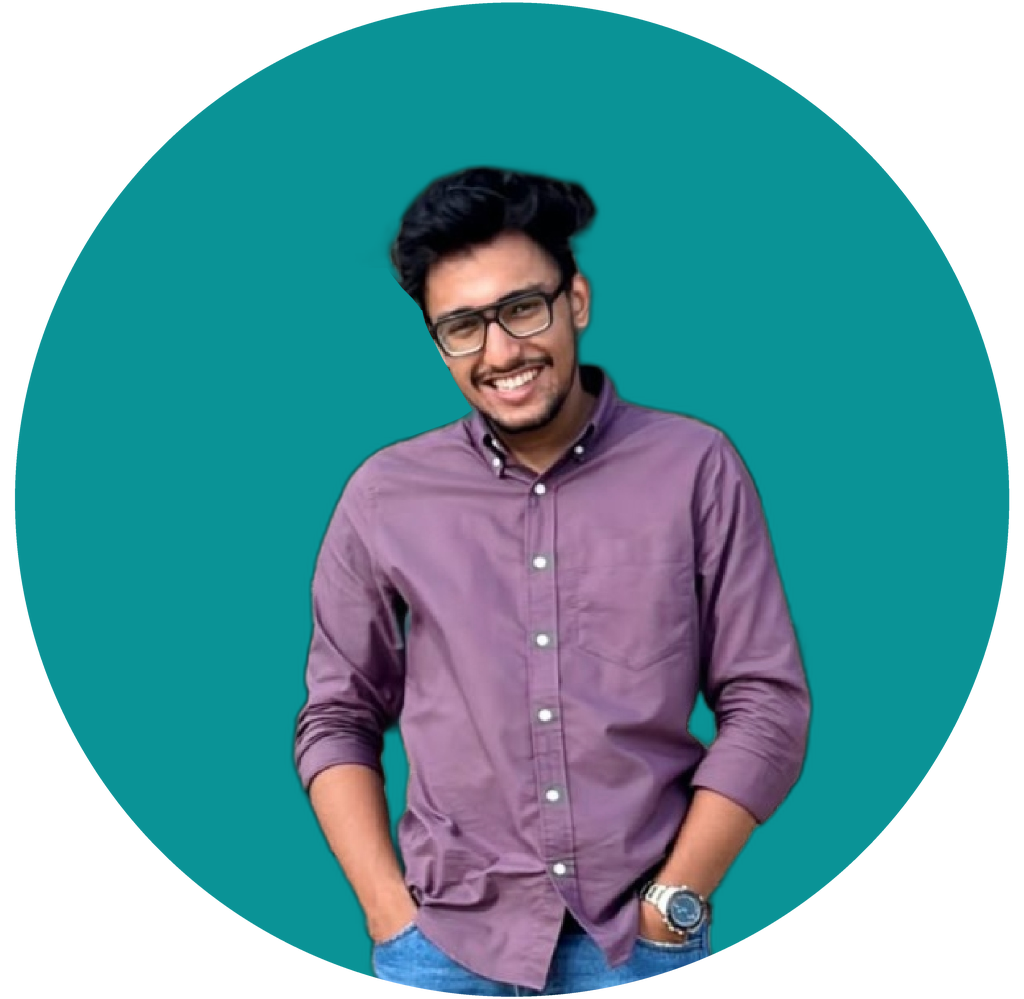
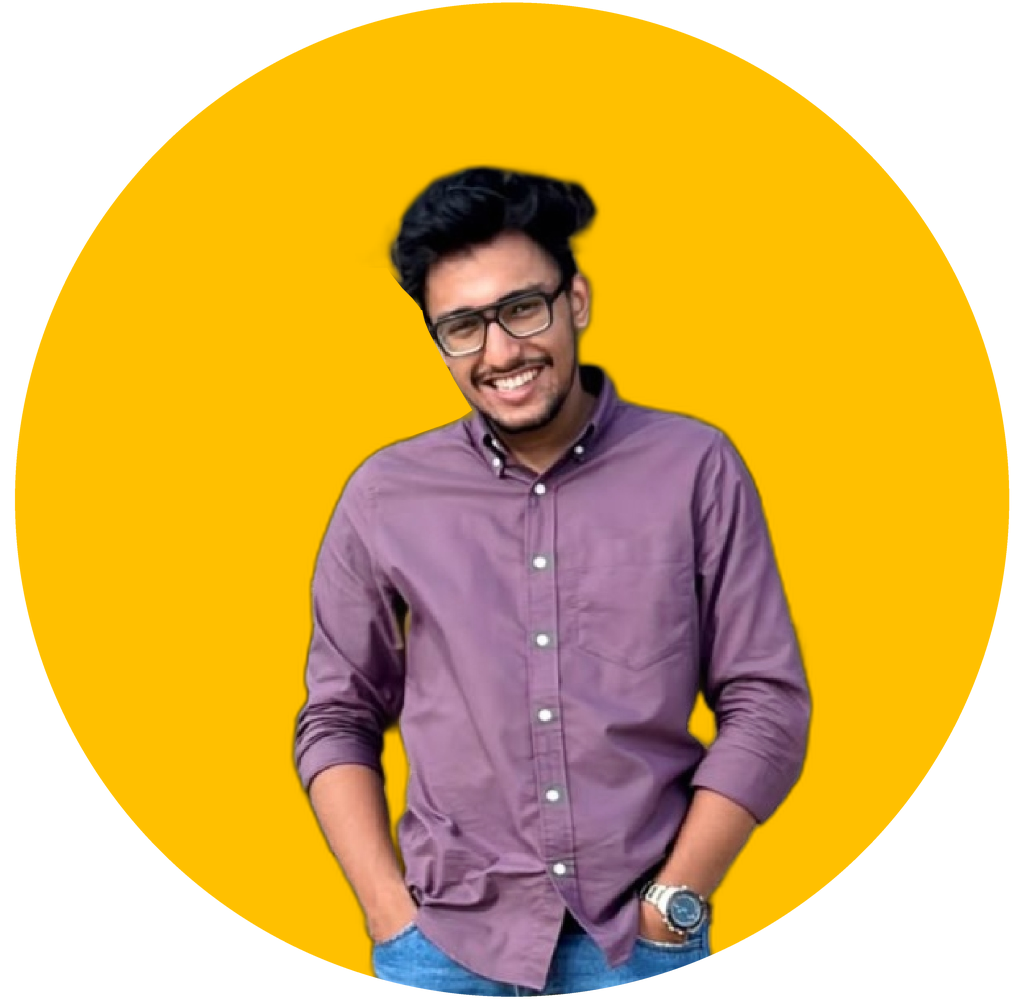
Update portfolio accent colors, buttons, mouse hover glow, and profile circle to golden yellow #FFC000

diff --git a/src/routes/index.tsx b/src/routes/index.tsx
@@ -220,7 +220,7 @@ function ScrollToTopButton() {
       type="button"
       onClick={scrollToTop}
       aria-label="Scroll back to top"
-      className={`fixed bottom-6 right-6 z-40 flex h-11 w-11 sm:h-12 sm:w-12 items-center justify-center rounded-full border border-border/80 bg-nav/90 text-foreground shadow-lg backdrop-blur-md transition-all duration-300 hover:border-[#59cdc6] hover:text-[#59cdc6] hover:shadow-[0_0_20px_rgba(89,205,198,0.35)] hover:scale-110 active:scale-95 ${
+      className={`fixed bottom-6 right-6 z-40 flex h-11 w-11 sm:h-12 sm:w-12 items-center justify-center rounded-full border border-border/80 bg-nav/90 text-foreground shadow-lg backdrop-blur-md transition-all duration-300 hover:border-[#FFC000] hover:text-[#FFC000] hover:shadow-[0_0_20px_rgba(255,192,0,0.35)] hover:scale-110 active:scale-95 ${
         visible ? "opacity-100 translate-y-0 pointer-events-auto" : "opacity-0 translate-y-4 pointer-events-none"
       }`}
     >
@@ -325,7 +325,7 @@ function Index() {
             <div>
               <a
                 href="#work"
-                className="inline-flex items-center gap-2.5 rounded-full bg-[#59cdc6] px-6 py-3 text-xs sm:text-sm font-semibold text-slate-900 transition-all duration-300 hover:bg-[#59cdc6]/90 hover:shadow-[0_0_24px_rgba(89,205,198,0.45)] hover:scale-[1.02] active:scale-95"
+                className="inline-flex items-center gap-2.5 rounded-full bg-[#FFC000] px-6 py-3 text-xs sm:text-sm font-semibold text-slate-900 transition-all duration-300 hover:bg-[#FFC000]/90 hover:shadow-[0_0_24px_rgba(255,192,0,0.45)] hover:scale-[1.02] active:scale-95"
               >
                 <span>Explore selected work</span>
                 <ArrowIcon />
@@ -378,7 +378,7 @@ function Index() {
                 href={project.url}
                 target="_blank"
                 rel="noopener noreferrer"
-                className="group block cursor-pointer transition-transform duration-300 hover:-translate-y-1 focus:outline-none focus-visible:ring-2 focus-visible:ring-[#59cdc6] rounded-lg"
+                className="group block cursor-pointer transition-transform duration-300 hover:-translate-y-1 focus:outline-none focus-visible:ring-2 focus-visible:ring-[#FFC000] rounded-lg"
               >
                 <div className="relative aspect-[4/3] overflow-hidden rounded-lg border border-border bg-card">
                   <img
@@ -391,7 +391,7 @@ function Index() {
                     <span className="text-[11px] sm:text-xs font-medium text-muted-foreground">{project.number} / {project.type}</span>
                   </div>
                 </div>
-                <h3 className="mt-3.5 sm:mt-5 text-base sm:text-lg md:text-xl font-semibold break-words text-foreground transition-colors group-hover:text-[#59cdc6]">
+                <h3 className="mt-3.5 sm:mt-5 text-base sm:text-lg md:text-xl font-semibold break-words text-foreground transition-colors group-hover:text-[#FFC000]">
                   {project.title}
                 </h3>
                 <p className="mt-1.5 sm:mt-2 text-xs sm:text-sm md:text-base leading-relaxed text-muted-foreground">{project.description}</p>
@@ -442,7 +442,7 @@ function Index() {
               {approachSteps.map((step) => (
                 <div
                   key={step.title}
-                  className="rounded-2xl border border-border bg-card/60 p-4 sm:p-5 transition-all duration-300 hover:border-[#59cdc6]/40 hover:bg-card hover:shadow-[0_4px_20px_rgba(89,205,198,0.08)]"
+                  className="rounded-2xl border border-border bg-card/60 p-4 sm:p-5 transition-all duration-300 hover:border-[#FFC000]/40 hover:bg-card hover:shadow-[0_4px_20px_rgba(255,192,0,0.08)]"
                 >
                   <div className="flex items-center justify-between">
                     <span className="text-xs font-semibold text-accent">{step.step}</span>
@@ -475,20 +475,20 @@ function Index() {
                   <div
                     className={`absolute -left-[29px] sm:-left-[41px] top-1 z-10 h-4 w-4 sm:h-[18px] sm:w-[18px] rounded-full border-2 border-background transition-all duration-300 group-hover:scale-125 ${
                       item.isCurrent
-                        ? "bg-[#59cdc6] border-[#59cdc6] shadow-[0_0_18px_#59cdc6] ring-4 ring-[#59cdc6]/30"
-                        : "bg-slate-300 dark:bg-[#45362C] group-hover:!bg-[#59cdc6] dark:group-hover:!bg-[#59cdc6] group-hover:!border-[#59cdc6] group-hover:shadow-[0_0_20px_#59cdc6] group-hover:ring-4 group-hover:ring-[#59cdc6]/40"
+                        ? "bg-[#FFC000] border-[#FFC000] shadow-[0_0_18px_#FFC000] ring-4 ring-[#FFC000]/30"
+                        : "bg-slate-300 dark:bg-[#45362C] group-hover:!bg-[#FFC000] dark:group-hover:!bg-[#FFC000] group-hover:!border-[#FFC000] group-hover:shadow-[0_0_20px_#FFC000] group-hover:ring-4 group-hover:ring-[#FFC000]/40"
                     }`}
                   />
 
                   {/* Period & Tag */}
                   <div className="flex flex-wrap items-center gap-2">
-                    <span className="text-[11px] sm:text-xs font-semibold uppercase tracking-wider text-[#59cdc6]">
+                    <span className="text-[11px] sm:text-xs font-semibold uppercase tracking-wider text-[#FFC000]">
                       {item.period}
                     </span>
                     <span
                       className={`inline-flex items-center rounded-full px-2 sm:px-2.5 py-0.5 text-[10px] sm:text-[11px] font-medium ${
                         item.isCurrent
-                          ? "border border-[#59cdc6]/30 bg-[#59cdc6]/15 text-[#59cdc6]"
+                          ? "border border-[#FFC000]/30 bg-[#FFC000]/15 text-[#FFC000]"
                           : "bg-muted text-muted-foreground"
                       }`}
                     >
@@ -497,7 +497,7 @@ function Index() {
                   </div>
 
                   {/* Title & Organization */}
-                  <h3 className="mt-1.5 sm:mt-2 text-base sm:text-lg md:text-xl font-semibold text-foreground transition-colors group-hover:text-[#59cdc6]">
+                  <h3 className="mt-1.5 sm:mt-2 text-base sm:text-lg md:text-xl font-semibold text-foreground transition-colors group-hover:text-[#FFC000]">
                     {item.title}
                   </h3>
                   <p className="mt-1 text-xs sm:text-sm font-medium text-muted-foreground">
@@ -522,10 +522,10 @@ function Index() {
             </div>
 
             {/* Document Card Overview */}
-            <div className="rounded-2xl border border-border bg-card/60 p-5 sm:p-7 transition-all duration-300 hover:border-[#59cdc6]/40 hover:bg-card hover:shadow-[0_8px_30px_rgba(89,205,198,0.08)]">
+            <div className="rounded-2xl border border-border bg-card/60 p-5 sm:p-7 transition-all duration-300 hover:border-[#FFC000]/40 hover:bg-card hover:shadow-[0_8px_30px_rgba(255,192,0,0.08)]">
               <div className="flex items-center justify-between border-b border-border pb-4">
                 <div className="flex items-center gap-3">
-                  <div className="flex h-11 w-11 items-center justify-center rounded-xl bg-[#59cdc6]/15 text-[#59cdc6]">
+                  <div className="flex h-11 w-11 items-center justify-center rounded-xl bg-[#FFC000]/15 text-[#FFC000]">
                     <svg xmlns="http://www.w3.org/2000/svg" width="22" height="22" viewBox="0 0 24 24" fill="none" stroke="currentColor" strokeWidth="2" strokeLinecap="round" strokeLinejoin="round" aria-hidden="true">
                       <path d="M14.5 2H6a2 2 0 0 0-2 2v16a2 2 0 0 0 2 2h12a2 2 0 0 0 2-2V7.5L14.5 2z" />
                       <polyline points="14 2 14 8 20 8" />
@@ -539,7 +539,7 @@ function Index() {
                     <p className="text-[11px] sm:text-xs text-muted-foreground">UI/UX Designer · PDF Document</p>
                   </div>
                 </div>
-                <span className="inline-flex items-center rounded-full border border-[#59cdc6]/30 bg-[#59cdc6]/15 px-2.5 py-1 text-[10px] sm:text-[11px] font-medium text-[#59cdc6]">
+                <span className="inline-flex items-center rounded-full border border-[#FFC000]/30 bg-[#FFC000]/15 px-2.5 py-1 text-[10px] sm:text-[11px] font-medium text-[#FFC000]">
                   Verified
                 </span>
               </div>
@@ -569,7 +569,7 @@ function Index() {
                   href="/Layiq_M.pdf?v=2"
                   target="_blank"
                   rel="noopener noreferrer"
-                  className="inline-flex items-center gap-2 rounded-full bg-[#59cdc6] px-4 py-2 text-xs font-semibold text-slate-900 transition-all duration-300 hover:bg-[#59cdc6]/90 hover:shadow-[0_0_20px_rgba(89,205,198,0.4)] hover:scale-[1.02] active:scale-95"
+                  className="inline-flex items-center gap-2 rounded-full bg-[#FFC000] px-4 py-2 text-xs font-semibold text-slate-900 transition-all duration-300 hover:bg-[#FFC000]/90 hover:shadow-[0_0_20px_rgba(255,192,0,0.4)] hover:scale-[1.02] active:scale-95"
                 >
                   <span>Open PDF</span>
                   <ArrowIcon />

diff --git a/src/styles.css b/src/styles.css
@@ -81,15 +81,15 @@
   --secondary-foreground: oklch(0.17 0.012 196);
   --muted: oklch(0.92 0.012 196);
   --muted-foreground: oklch(0.45 0.025 196);
-  --accent: oklch(0.72 0.105 190);
+  --accent: #FFC000;
   --accent-foreground: oklch(0.15 0.02 196);
   --destructive: oklch(0.577 0.245 27.325);
   --destructive-foreground: oklch(0.984 0.003 247.858);
   --border: oklch(0.84 0.02 196);
   --input: oklch(0.84 0.02 196);
-  --ring: oklch(0.72 0.105 190);
+  --ring: #FFC000;
   --nav: oklch(0.98 0.008 196);
-  --accent-soft: oklch(0.88 0.055 190);
+  --accent-soft: rgba(255, 192, 0, 0.15);
   --project-caption: oklch(0.98 0.008 196);
   --chart-1: oklch(0.646 0.222 41.116);
   --chart-2: oklch(0.6 0.118 184.704);
@@ -119,15 +119,15 @@
   --secondary-foreground: oklch(0.96 0.01 70);
   --muted: oklch(0.25 0.024 55);
   --muted-foreground: oklch(0.70 0.022 65);
-  --accent: oklch(0.78 0.105 190);
+  --accent: #FFC000;
   --accent-foreground: oklch(0.18 0.018 55);
   --destructive: oklch(0.577 0.245 27.325);
   --destructive-foreground: oklch(0.984 0.003 247.858);
   --border: oklch(0.32 0.025 55);
   --input: oklch(0.32 0.025 55);
-  --ring: oklch(0.78 0.105 190);
+  --ring: #FFC000;
   --nav: oklch(0.21 0.02 55);
-  --accent-soft: oklch(0.28 0.045 55);
+  --accent-soft: rgba(255, 192, 0, 0.18);
   --project-caption: oklch(0.19 0.018 55);
   --chart-1: oklch(0.646 0.222 41.116);
   --chart-2: oklch(0.6 0.118 184.704);

diff --git a/src/components/CursorGlow.tsx b/src/components/CursorGlow.tsx
@@ -26,7 +26,7 @@ export function CursorGlow() {
         visible ? "opacity-100" : "opacity-0"
       }`}
       style={{
-        background: `radial-gradient(650px circle at ${position.x}px ${position.y}px, rgba(34, 227, 159, 0.24) 0%, rgba(34, 227, 159, 0.09) 45%, transparent 70%)`,
+        background: `radial-gradient(650px circle at ${position.x}px ${position.y}px, rgba(255, 192, 0, 0.22) 0%, rgba(255, 192, 0, 0.08) 45%, transparent 70%)`,
       }}
       aria-hidden="true"
     />
